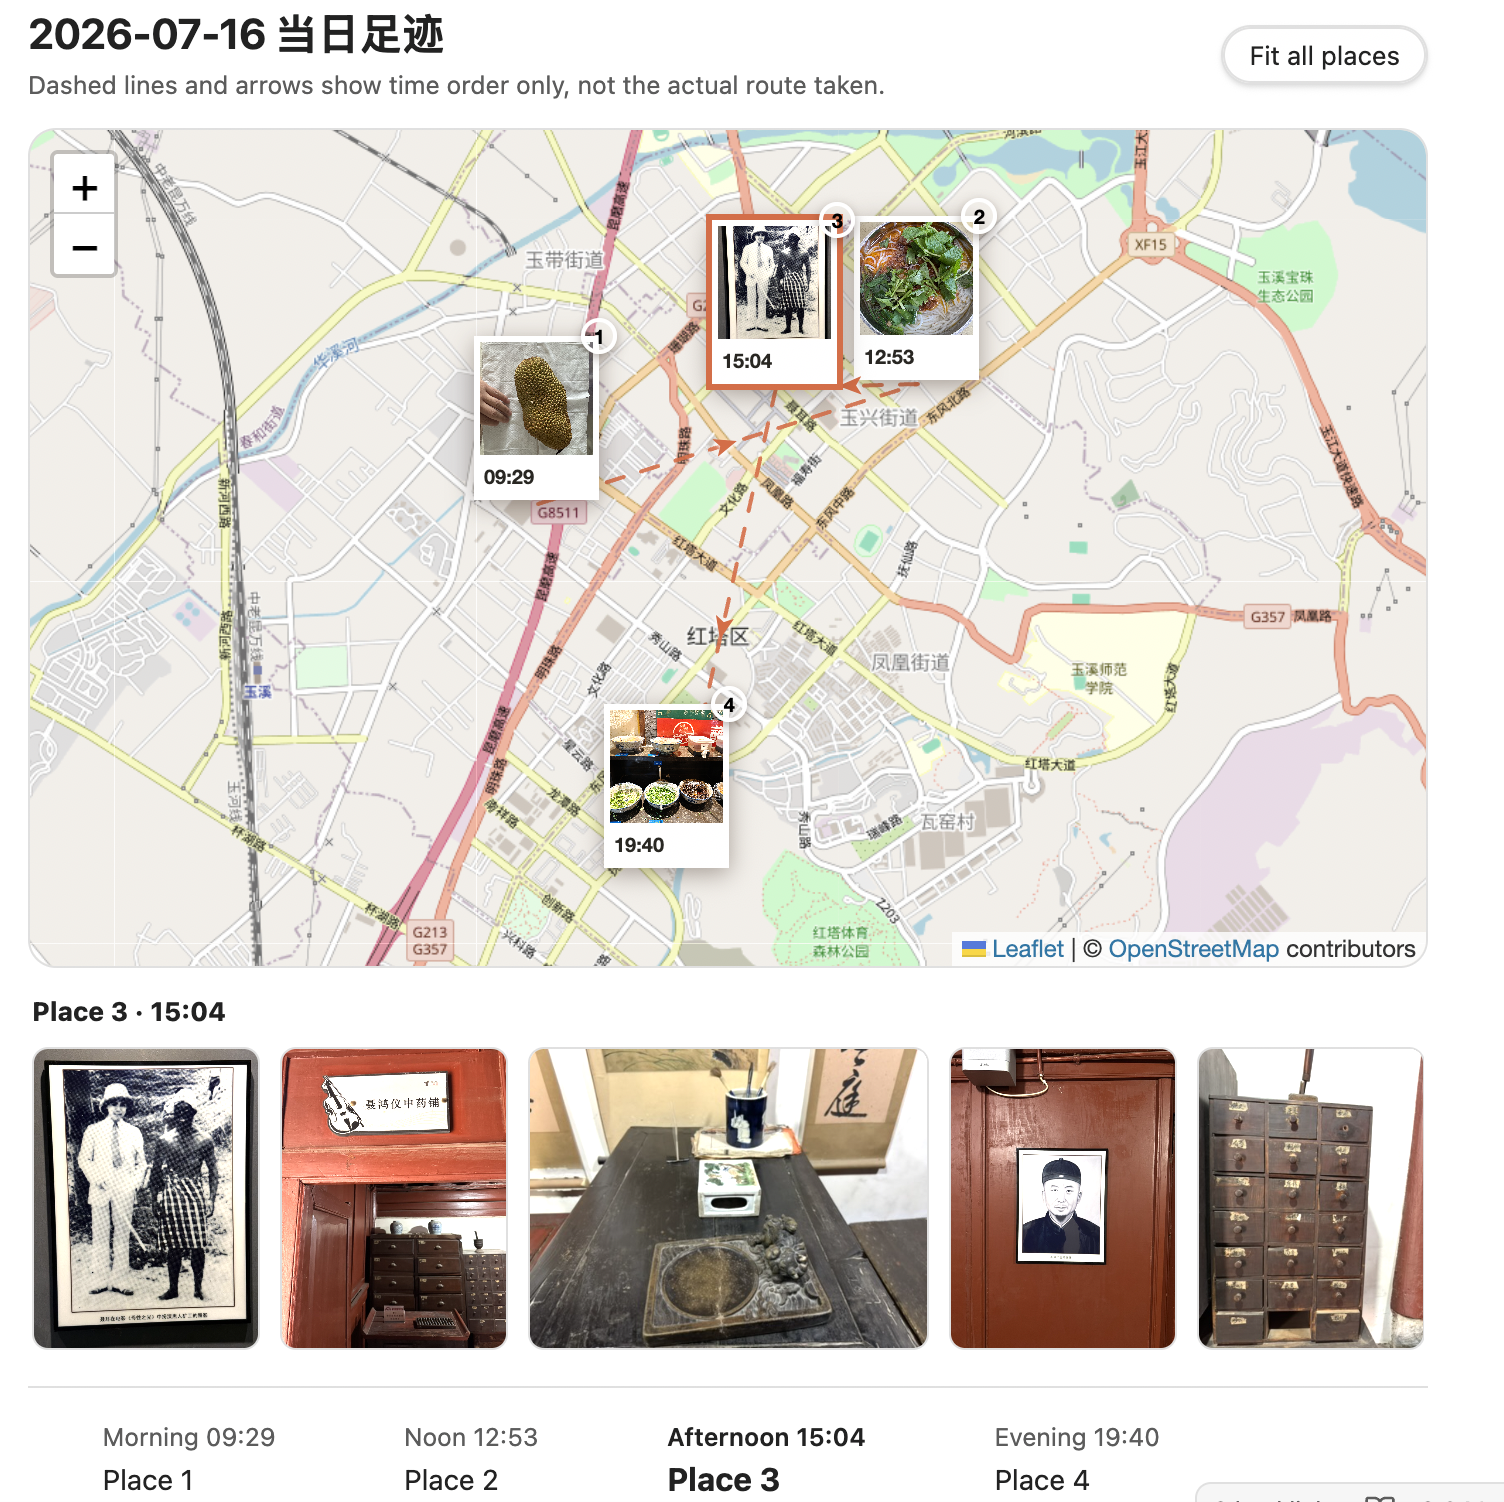
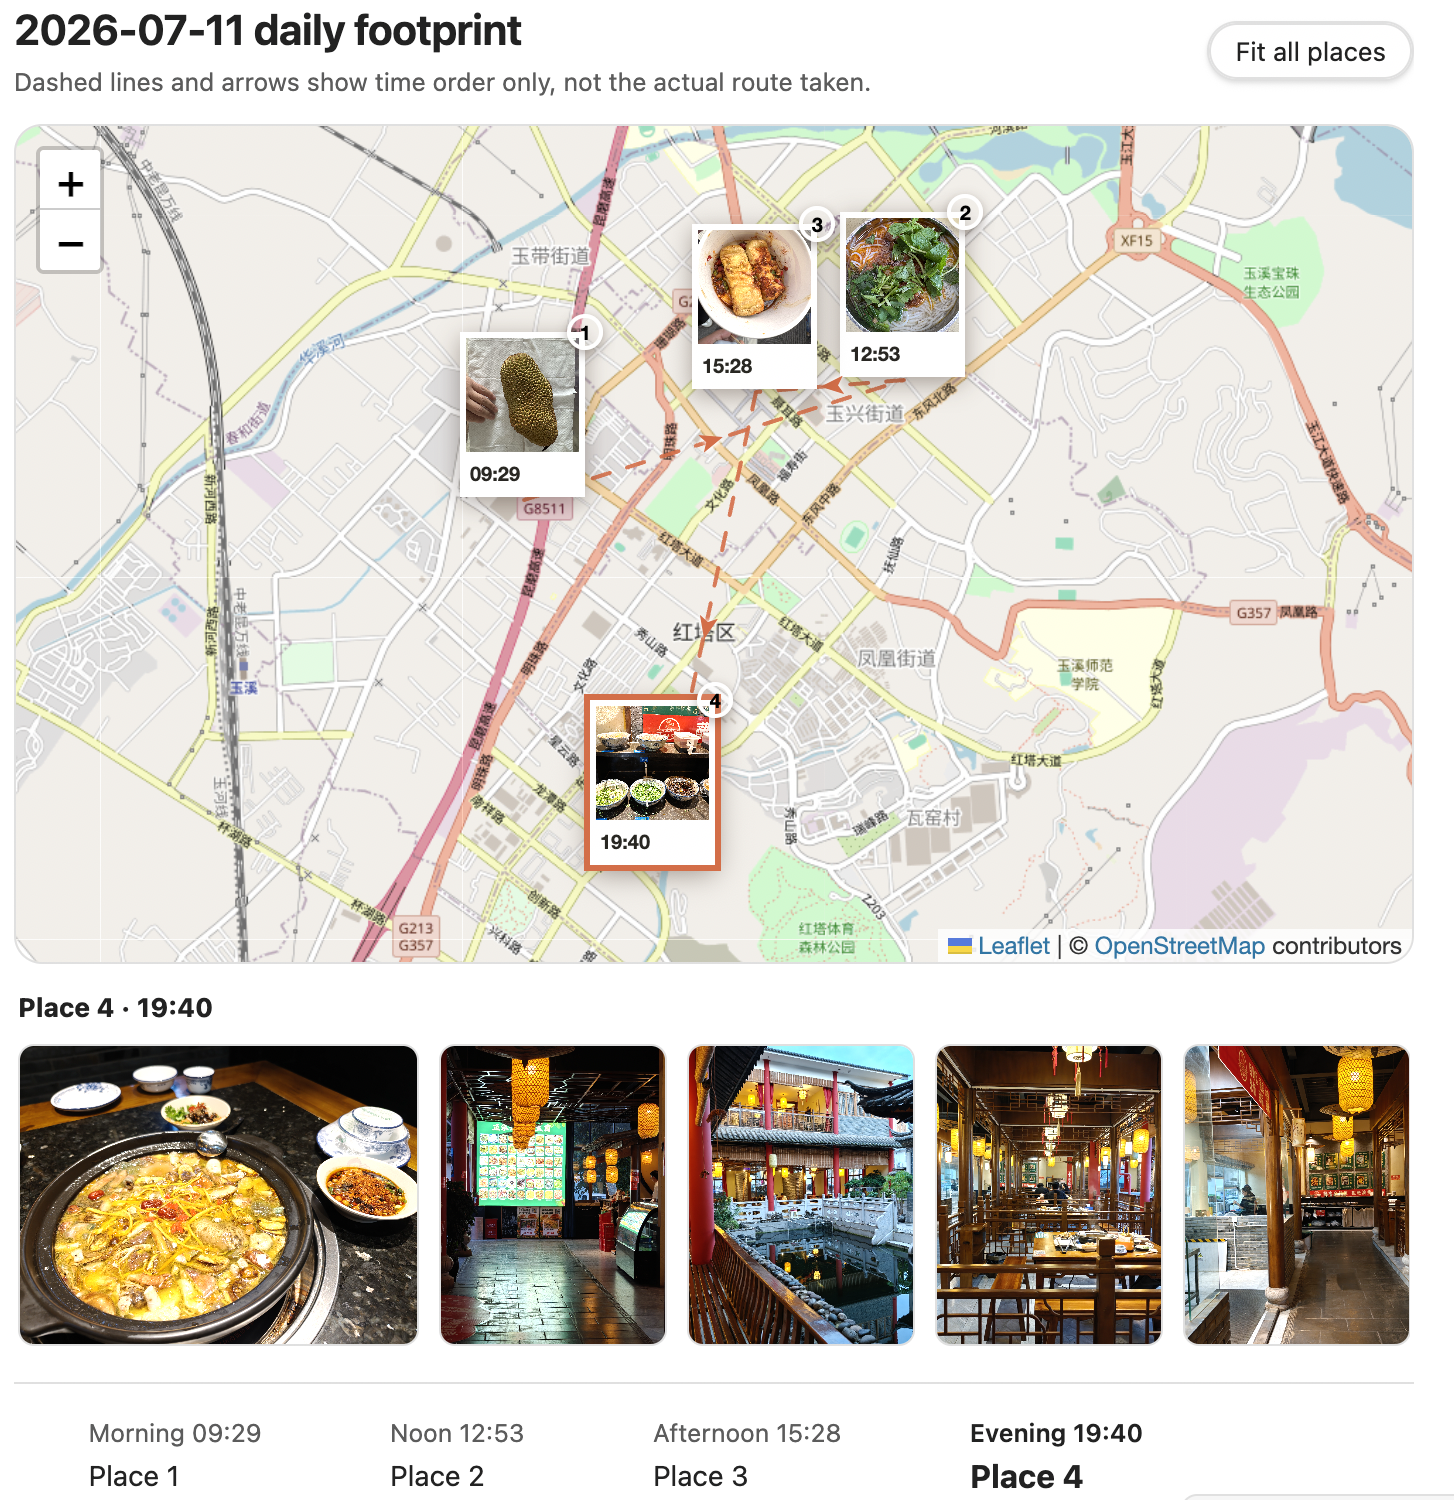
Update product screenshot and OSM attribution

diff --git a/README.md b/README.md
@@ -8,6 +8,8 @@ Footprint Map renders a local, time-ordered travel diary from photo locations in
 
 *Visualize a day's photo journey on an interactive map, with time-ordered places, photo galleries, and a synchronized timeline.*
 
+[Map data © OpenStreetMap contributors](https://www.openstreetmap.org/copyright)
+
 ## Features
 
 - Generate visits from embedded JPEG, HEIC, and PNG photo metadata.